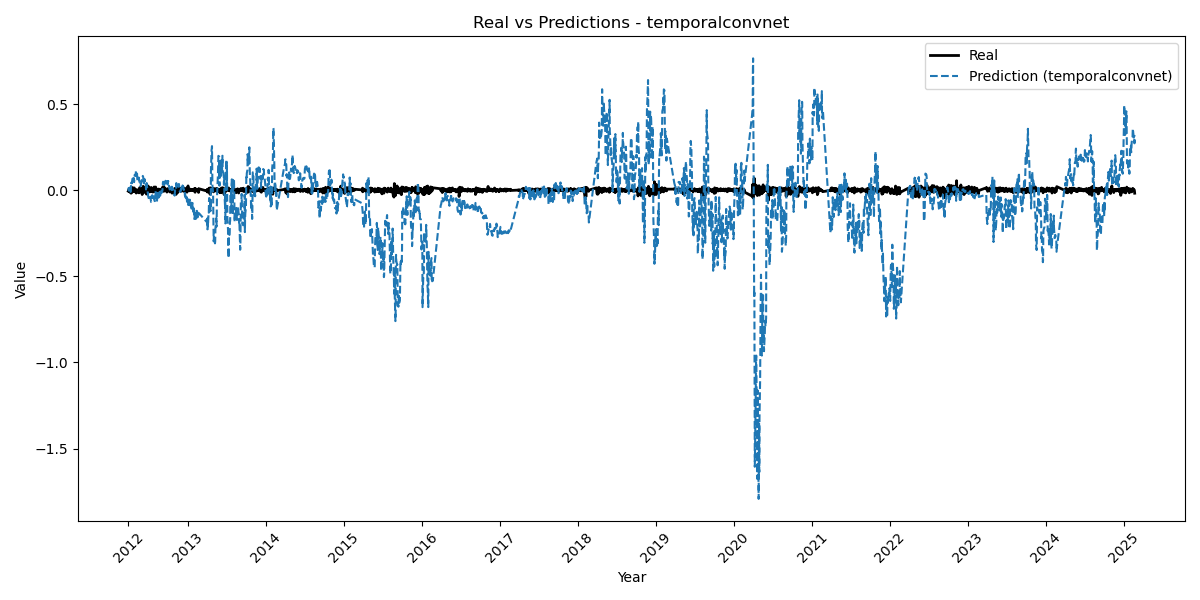
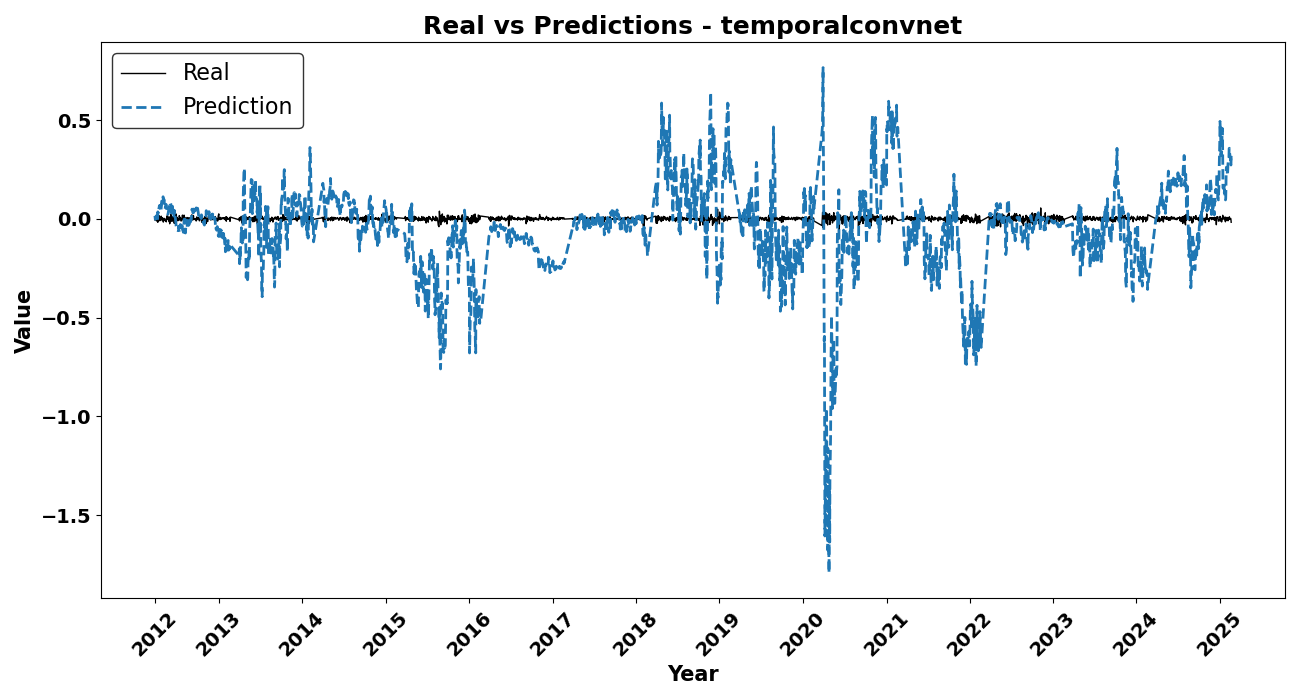
plots2

diff --git a/plotting.py b/plotting.py
@@ -38,19 +38,40 @@ def plot_real_vs_predictions(
         merged = pd.merge(real_df, pred_df, on=date_col, how="inner")
 
         # Plot
-        plt.figure(figsize=(12, 6))
-        plt.plot(merged[date_col], merged["real"], label="Real", color="black", linewidth=2)
-        plt.plot(merged[date_col], merged[model], label=f"Prediction ({model})", linestyle="--")
+        plt.figure(figsize=(13, 7))
+        real_line, = plt.plot(
+            merged[date_col], merged["real"], 
+            label="Real", color="black", linewidth=1.0
+        )
+        pred_line, = plt.plot(
+            merged[date_col], merged[model], 
+            label="Prediction", linestyle="--", linewidth=2
+        )
 
         # X-axis: only mark the beginning of each year
         years = merged[date_col].dt.year.unique()
         year_start_dates = [merged[merged[date_col].dt.year == y][date_col].iloc[0] for y in years]
-        plt.xticks(year_start_dates, [str(y) for y in years], rotation=45)
+        plt.xticks(
+            year_start_dates, 
+            [str(y) for y in years], 
+            rotation=45, 
+            fontsize=14, 
+            fontweight='bold'
+        )
+        plt.yticks(fontsize=14, fontweight='bold')
 
-        plt.title(f"{plot_title} - {model}")
-        plt.xlabel("Year")
-        plt.ylabel(y_label)
-        plt.legend()
+        plt.title(f"{plot_title} - {model}", fontsize=18, fontweight='bold')
+        plt.xlabel("Year", fontsize=15, fontweight='bold')
+        plt.ylabel(y_label, fontsize=15, fontweight='bold')
+        plt.legend(
+            [real_line, pred_line],
+            ["Real", "Prediction"],
+            fontsize=16,
+            frameon=True,
+            facecolor='white',
+            edgecolor='black',
+            loc='upper left'
+        )
         plt.tight_layout()
 
         # Save
@@ -62,7 +83,7 @@ def plot_real_vs_predictions(
 
 plot_real_vs_predictions(
     real_csv_path="data_non_std.csv",
-    model_names=['temporalfusiontransformer_nae', 'lstm_nae', 'feedforward_nae', 'transformer_nae', 'temporalconvnet_nae', 'cnn_nae'],
-    predictions_dir="results_no_autoencoder",
+    model_names=['temporalfusiontransformer', 'lstm', 'feedforward', 'transformer', 'temporalconvnet', 'cnn'],
+    predictions_dir="results_autoencoder",
     output_dir="plots"
 )
